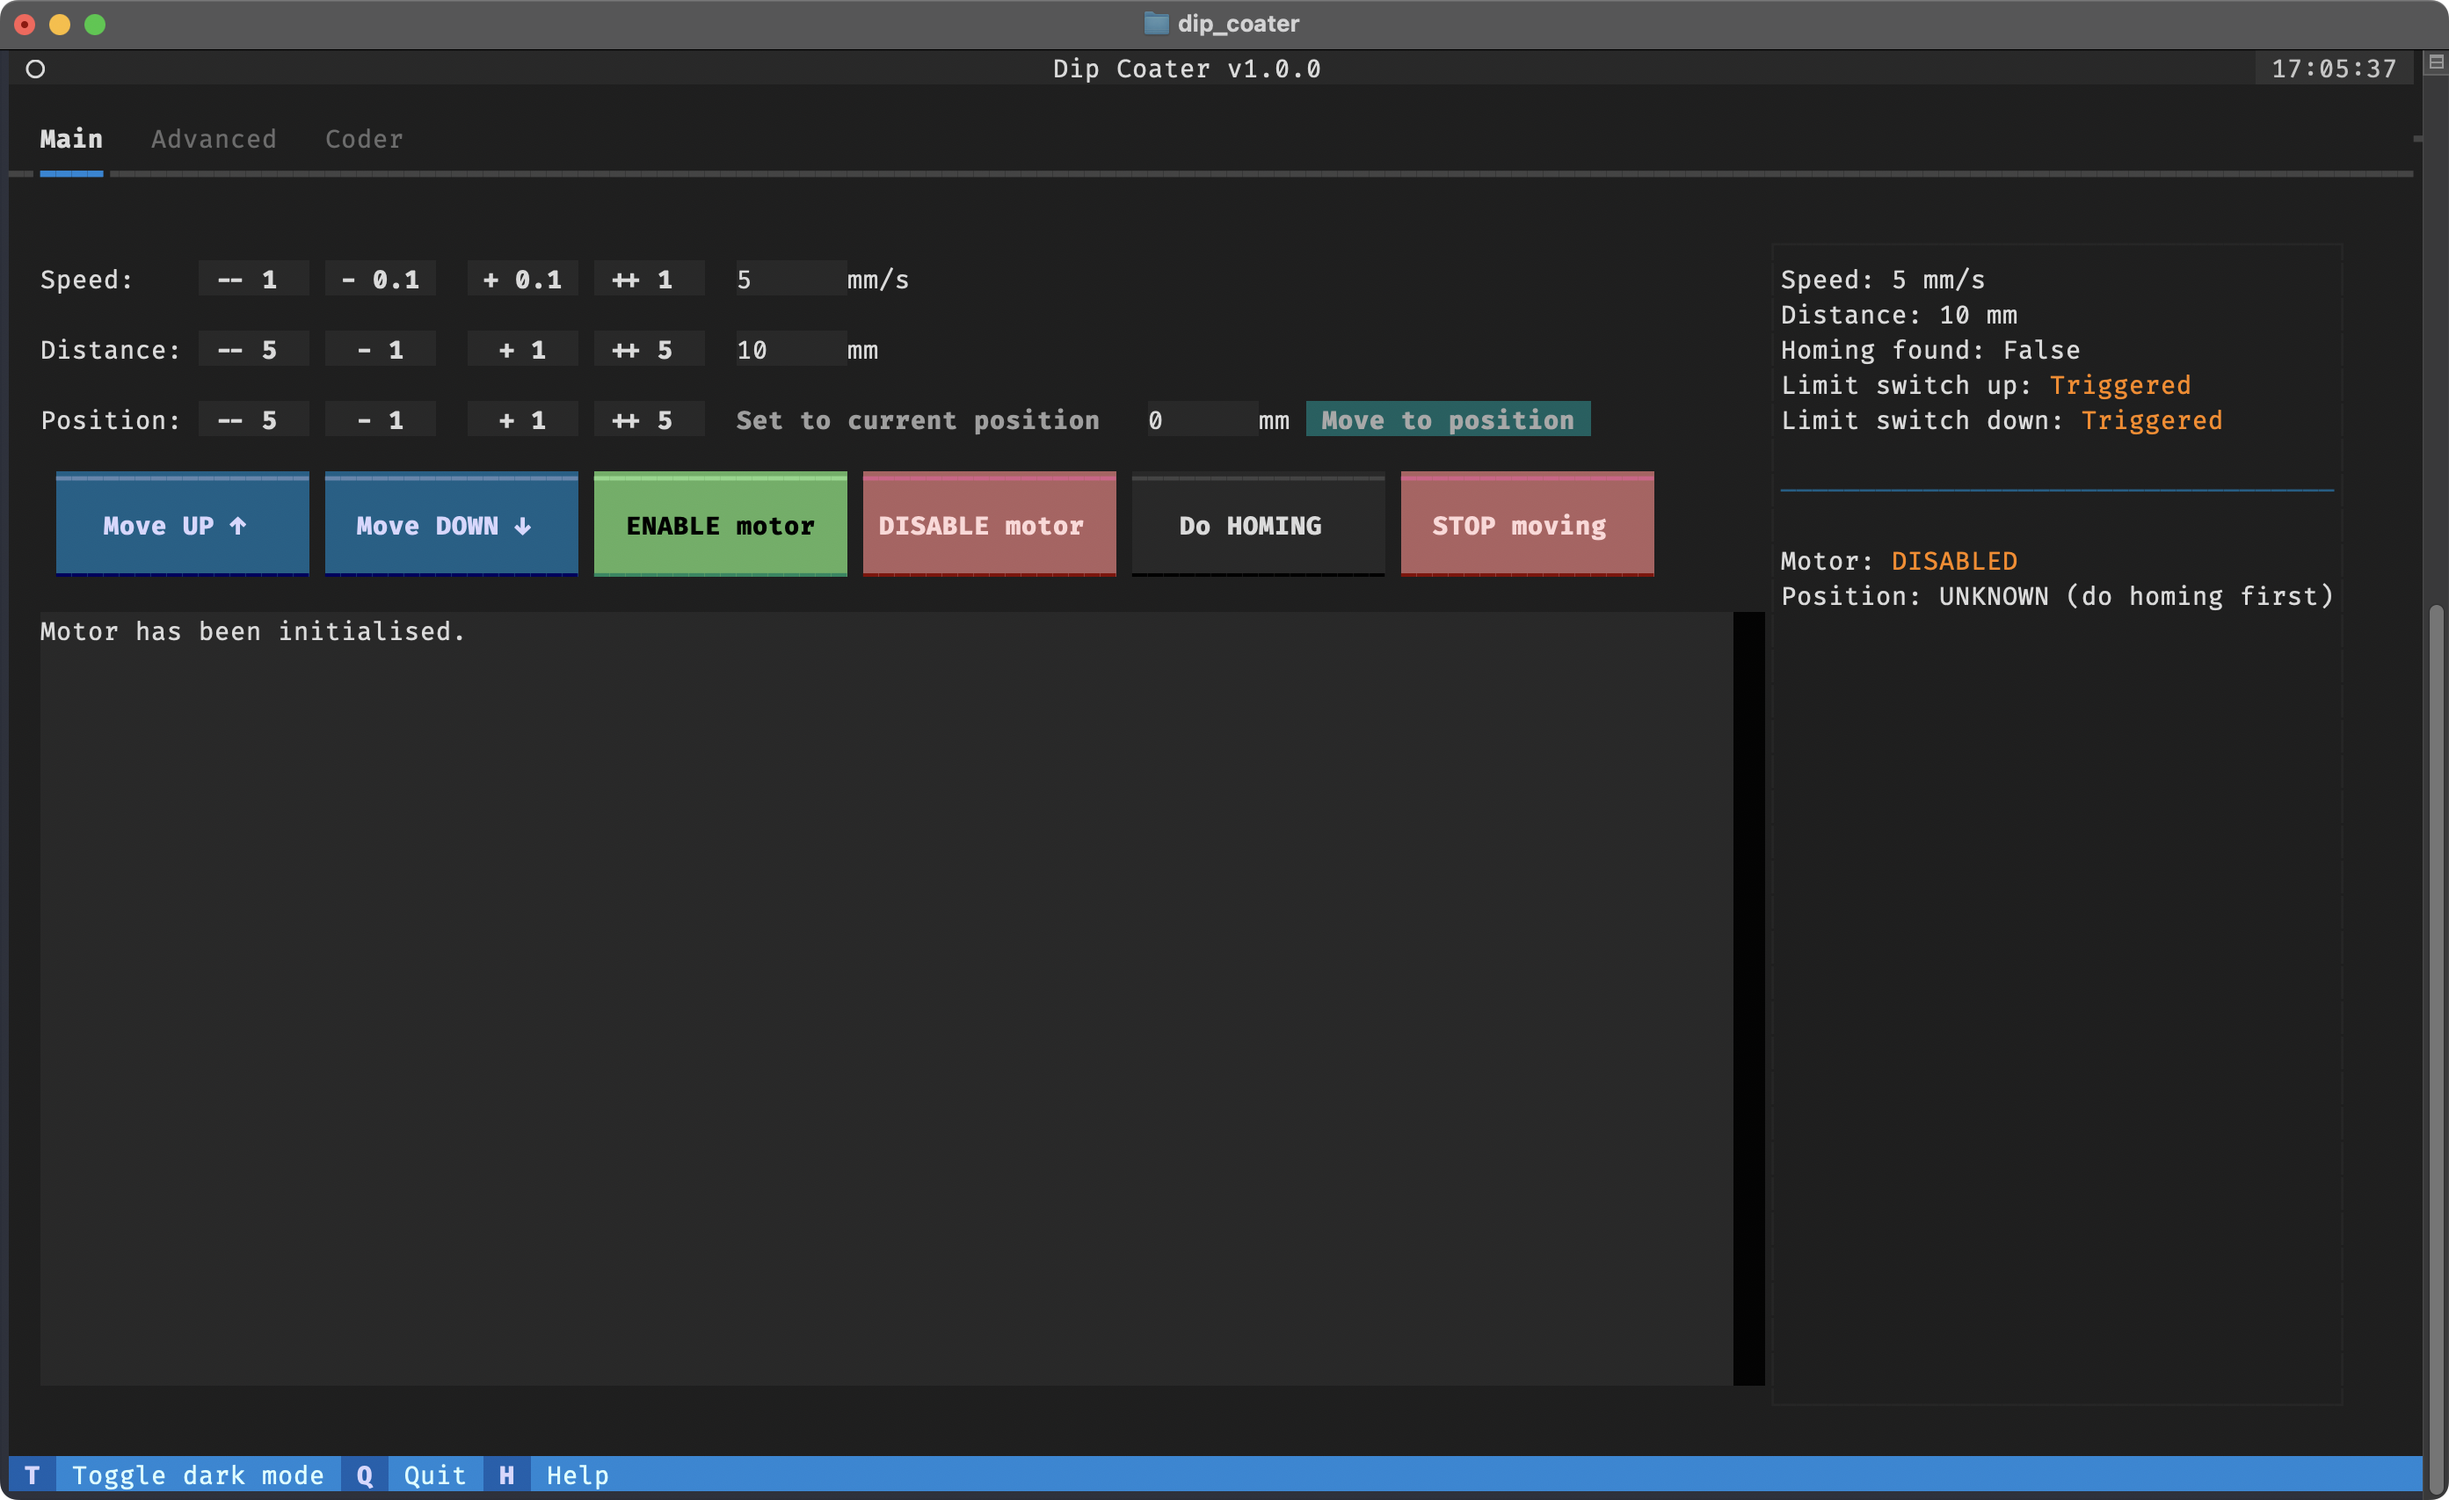
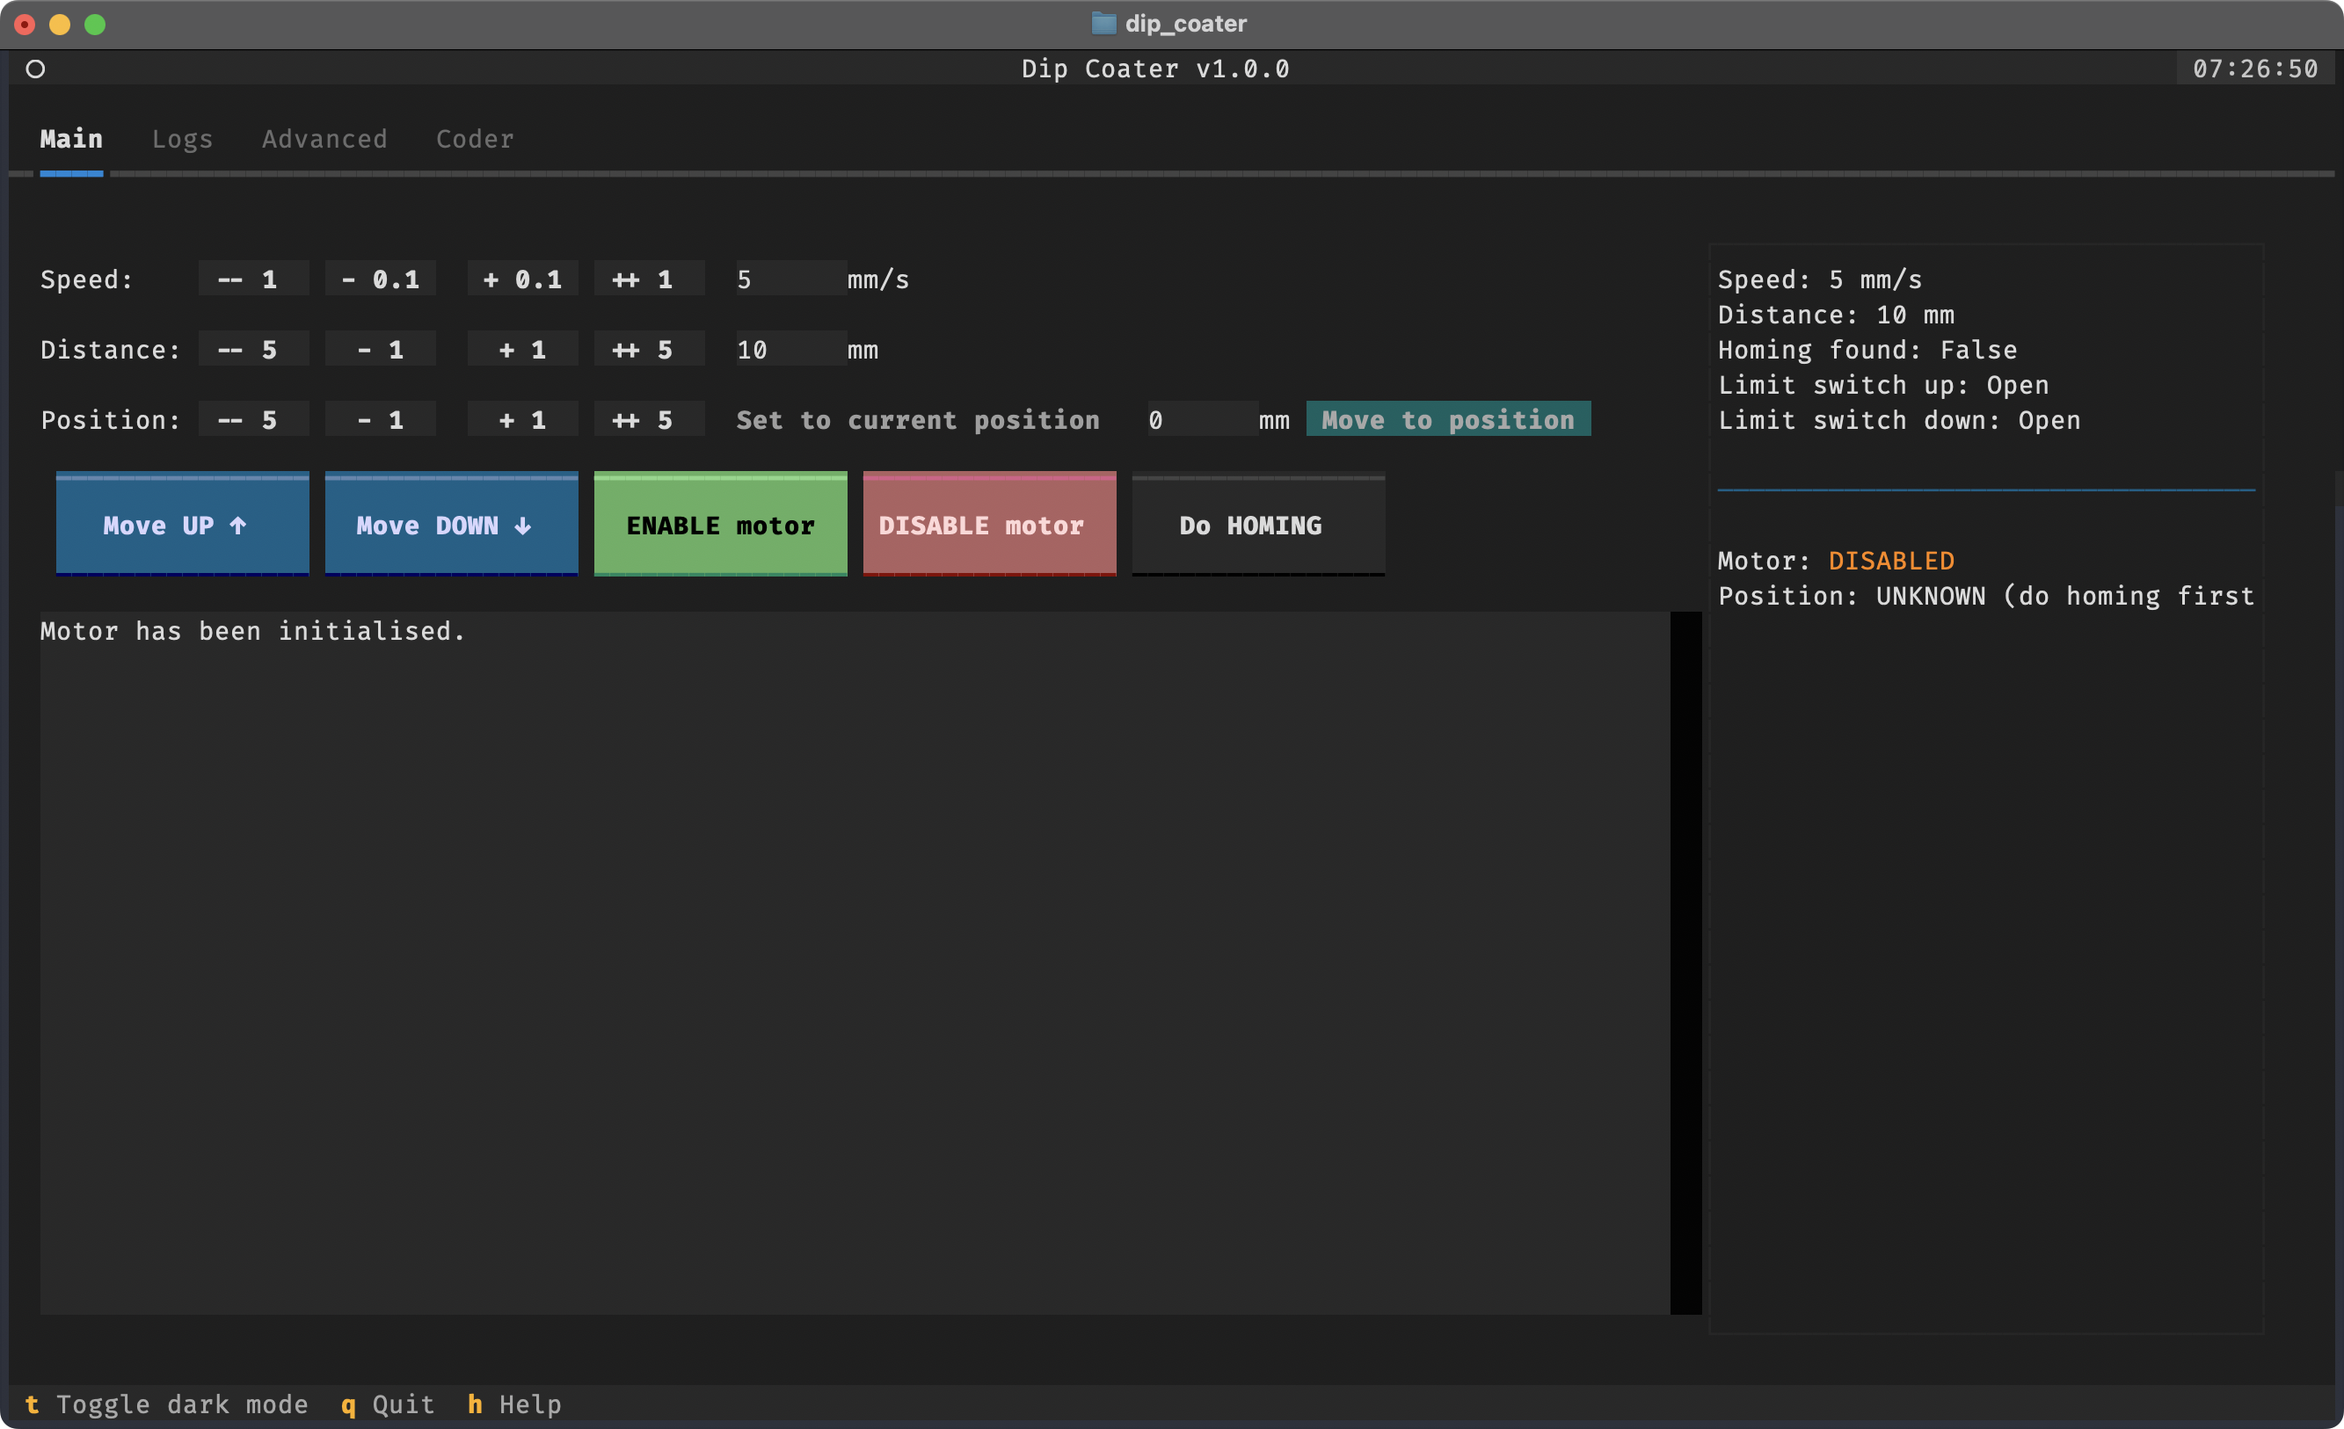
Update screenshots

diff --git a/README.md b/README.md
@@ -44,6 +44,10 @@ By default, the `Main` tab is selected. You can switch to the `Advanced` tab on 
 
 ![](https://raw.githubusercontent.com/IvS-KULeuven/dip_coater/develop/images/dip-coater-dark-advanced.png)
 
+To view log messages of the program for debugging, you can switch to the `Logs` tab.
+
+![](https://raw.githubusercontent.com/IvS-KULeuven/dip_coater/develop/images/dip-coater-dark-logs.png)
+
 To run custom, automated routines, you can use the `Coder` tab. Here you can write your own Python code to control the motor
 using the Coder API. The code is executed when you press the `RUN code` button. You can view the available Coder API calls in the 
 collapsible section at the top of the screen, or in the help menu. If you do not want to use the default code, you can 
